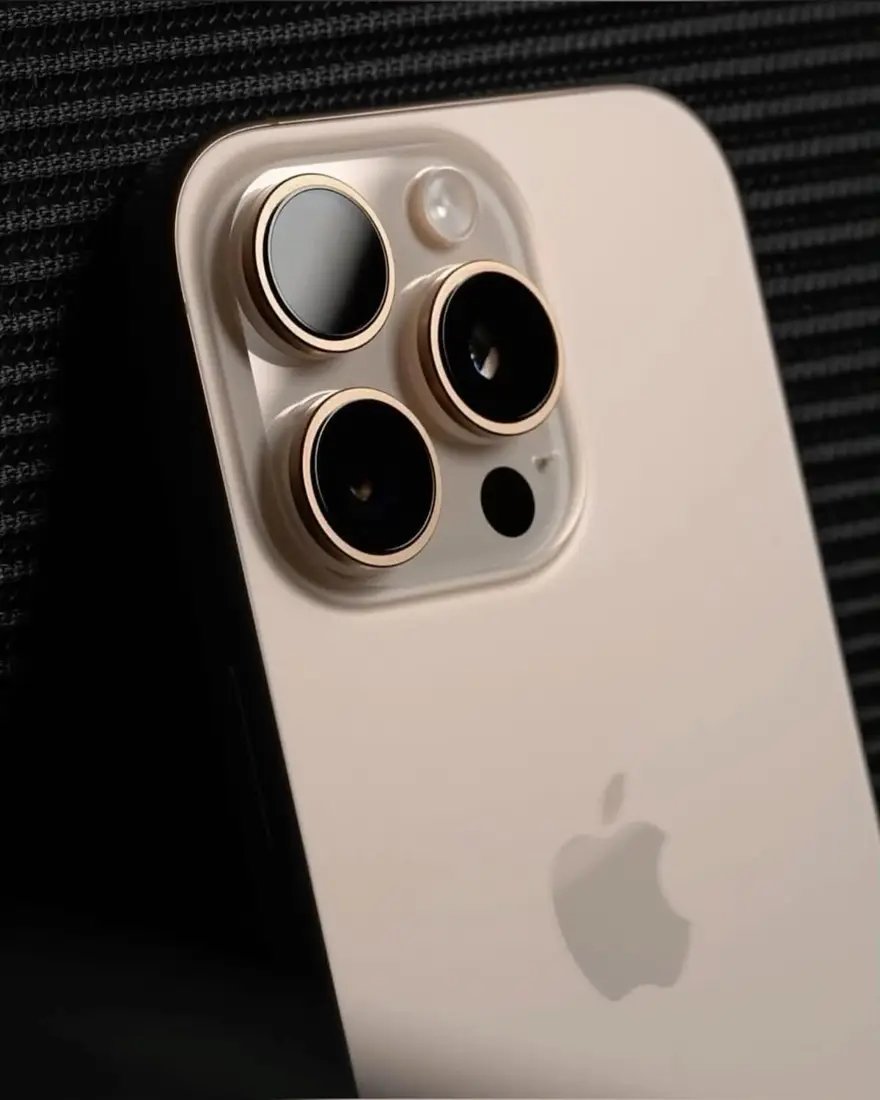
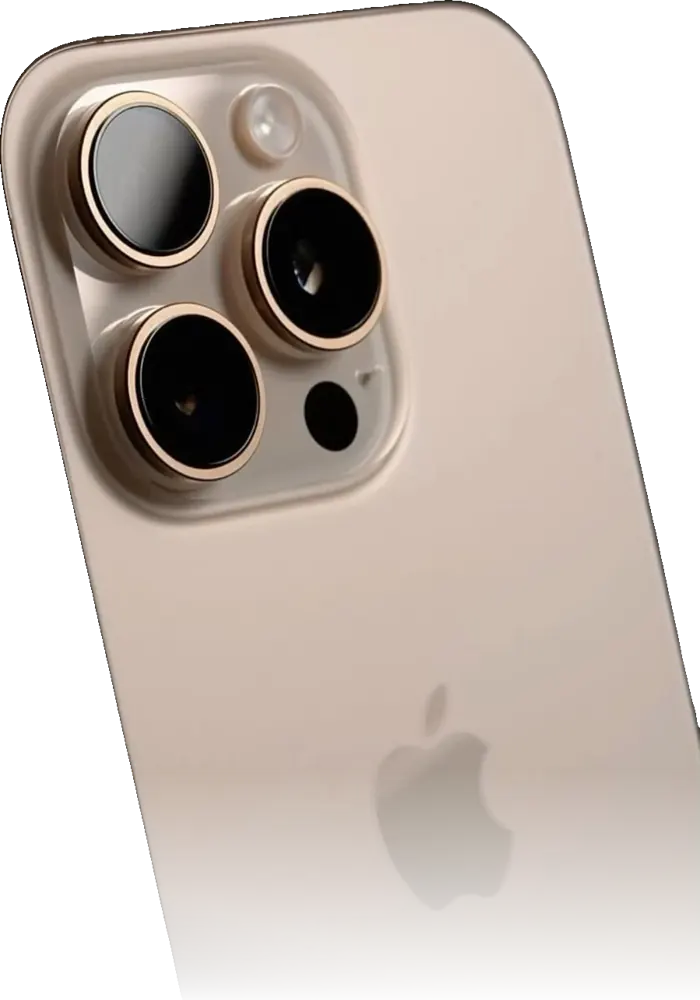
Hero tech.html : produits détourés en plein fond, thème clair/sombre, mot géant, particules, bouton Commander

diff --git a/tech.html b/tech.html
@@ -1301,56 +1301,113 @@ footer{background:#fff;border-top:2px solid var(--red);box-shadow:0 -2px 15px rg
 <!-- HERO -->
 <section id="accueil">
 <style>
-#accueil{--av-nav:61px;--av-cx:50%;min-height:calc(100vh - var(--av-nav));min-height:calc(100svh - var(--av-nav));background:#04060B;padding-bottom:96px;isolation:isolate}
+#accueil{--av-nav:61px;--av-cx:50%;--av-bg:#04060B;--av-glass:rgba(10,14,24,.52);--av-line:rgba(255,255,255,.16);--av-word:rgba(255,255,255,.10);
+  min-height:calc(100vh - var(--av-nav));min-height:calc(100svh - var(--av-nav));background:var(--av-bg);padding-bottom:150px;isolation:isolate;overflow:hidden}
 #accueil .av-stage{position:absolute;inset:0;z-index:0;overflow:hidden}
-#accueil .av-scene{position:absolute;inset:0;overflow:hidden;visibility:hidden}
+#accueil .av-scene{position:absolute;inset:0;overflow:hidden;visibility:hidden;background:
+  radial-gradient(42% 50% at 50% 48%,rgba(0,74,173,.34),transparent 70%),
+  radial-gradient(28% 34% at 62% 64%,rgba(255,49,49,.22),transparent 70%),
+  radial-gradient(40% 7% at 50% 92%,rgba(255,255,255,.07),transparent 75%),var(--av-bg)}
 #accueil .av-scene.on,#accueil .av-scene.in{visibility:visible}
-#accueil .av-blur{position:absolute;inset:-60px;background-size:cover;background-position:center;filter:blur(44px) brightness(.4) saturate(1.35);transform:scale(1.1)}
-#accueil .av-pic{position:absolute;left:var(--av-cx);top:50%;height:100%;transform:translate(-50%,-50%)}
-#accueil .av-pic img{display:block;height:100%;width:auto;max-width:none;transform-origin:50% 50%}
-#accueil .av-scene.kb .av-pic img{animation:avKB 7s linear forwards}
-@keyframes avKB{from{transform:scale(1.02) rotate(-1deg)}to{transform:scale(1.14) rotate(1deg) translateY(-2%)}}
-#accueil .av-shade{position:absolute;inset:0;z-index:1;pointer-events:none;background:linear-gradient(0deg,rgba(4,6,11,.9) 0%,rgba(4,6,11,0) 22%),rgba(4,6,11,.6)}
-#accueil .av-ring{position:absolute;left:var(--av-cx);top:50%;border-radius:50%;border:2px solid #ff3131;box-shadow:0 0 28px rgba(255,49,49,.9),inset 0 0 28px rgba(0,74,173,.9);pointer-events:none;opacity:0;z-index:50;transform:translate(-50%,-50%)}
-#accueil .hero-content{z-index:2}
-#accueil .av-cap{position:absolute;right:120px;bottom:54px;z-index:3;text-align:right;opacity:0;transform:translateY(10px);transition:opacity .5s,transform .5s;pointer-events:none}
-#accueil .av-cap.show{opacity:1;transform:none;transition:opacity .8s .3s,transform .8s .3s}
-#accueil .av-cap span{display:block;font:700 .78rem 'Outfit',sans-serif;letter-spacing:2px;text-transform:uppercase;color:#ff3131}
-#accueil .av-cap strong{display:block;font:400 clamp(1.6rem,2.6vw,2.4rem) 'Bebas Neue',sans-serif;letter-spacing:2px;color:#fff;margin-top:2px}
-#accueil .av-dots{position:absolute;bottom:26px;left:0;right:0;display:flex;justify-content:center;gap:8px;z-index:4}
+#accueil .av-word{position:absolute;left:50%;top:46%;transform:translate(-50%,-50%);font:400 clamp(9rem,30vw,26rem)/.8 'Bebas Neue',sans-serif;letter-spacing:.04em;white-space:nowrap;color:transparent;-webkit-text-stroke:2px var(--av-word);pointer-events:none}
+#accueil .av-scene.kb .av-word{animation:avWord 7s cubic-bezier(.2,.7,.3,1) forwards}
+@keyframes avWord{from{transform:translate(-44%,-50%);opacity:0}15%{opacity:1}to{transform:translate(-54%,-50%);opacity:1}}
+#accueil .av-pic{position:absolute;left:50%;top:50%;width:min(86vw,1200px);height:92%;transform:translate(-50%,-50%);display:flex;align-items:center;justify-content:center}
+#accueil .av-pic img{display:block;max-width:100%;max-height:100%;width:auto;height:auto;filter:drop-shadow(0 40px 50px rgba(0,0,0,.7)) drop-shadow(0 0 40px rgba(47,198,224,.22))}
+#accueil .av-scene.kb .av-pic img{animation:avKB 7s ease-out forwards,avFloat 4s ease-in-out infinite alternate}
+@keyframes avKB{from{scale:.94;rotate:-2deg}to{scale:1.06;rotate:1deg}}
+@keyframes avFloat{from{translate:0 0}to{translate:0 -14px}}
+#accueil .av-shine{position:absolute;inset:0;pointer-events:none;background:linear-gradient(105deg,transparent 35%,rgba(255,255,255,.22) 48%,transparent 60%);transform:translateX(-120%);mix-blend-mode:overlay}
+#accueil .av-scene.kb .av-shine{animation:avShine 1.8s .9s ease-in-out forwards}
+@keyframes avShine{to{transform:translateX(120%)}}
+#accueil .av-fx{position:absolute;inset:0;z-index:1;pointer-events:none;overflow:hidden}
+#accueil .av-fx i{position:absolute;bottom:-10px;width:var(--s);height:var(--s);border-radius:50%;background:var(--c);box-shadow:0 0 8px var(--c),0 0 14px var(--c);opacity:0;animation:avRise var(--d) linear var(--dl) infinite}
+@keyframes avRise{0%{transform:translate(0,0);opacity:0}10%{opacity:.8}90%{opacity:.6}100%{transform:translate(var(--x),-105vh);opacity:0}}
+#accueil .av-shade{position:absolute;inset:0;z-index:2;pointer-events:none;background:
+  radial-gradient(58% 55% at 50% 46%,rgba(4,6,11,.74),rgba(4,6,11,.3) 72%,rgba(4,6,11,.12)),
+  linear-gradient(0deg,rgba(4,6,11,.95) 0%,rgba(4,6,11,0) 26%),
+  linear-gradient(180deg,rgba(4,6,11,.55) 0%,rgba(4,6,11,0) 18%)}
+#accueil .av-ring{position:absolute;left:50%;top:50%;border-radius:50%;border:2px solid #ff3131;box-shadow:0 0 30px rgba(255,49,49,.9),inset 0 0 30px rgba(0,74,173,.9);pointer-events:none;opacity:0;z-index:50;transform:translate(-50%,-50%)}
+#accueil .hero-content{z-index:3;text-align:center}
+#accueil .hero-sub{text-shadow:0 2px 14px rgba(0,0,0,.6);font-weight:500}
+#accueil .hero-stats{display:grid;grid-template-columns:repeat(4,minmax(0,1fr));gap:.7rem;width:100%;max-width:640px;margin-left:auto;margin-right:auto}
+#accueil .stat-box{padding:.9rem .5rem}
+@media (max-width:560px){#accueil .hero-stats{grid-template-columns:repeat(2,minmax(0,1fr))}}
+#accueil .hero-trust,#accueil .hero-badge{background:var(--av-glass);border-color:var(--av-line);backdrop-filter:blur(14px) saturate(1.4);-webkit-backdrop-filter:blur(14px) saturate(1.4)}
+#accueil .stat-box{background:var(--av-glass) !important;border-color:var(--av-line);backdrop-filter:blur(14px) saturate(1.4);-webkit-backdrop-filter:blur(14px) saturate(1.4);box-shadow:0 12px 30px -12px rgba(0,0,0,.6) !important}
+#accueil .btn-red{position:relative;overflow:hidden}
+#accueil .btn-red::after{content:"";position:absolute;inset:0;background:linear-gradient(105deg,transparent 30%,rgba(255,255,255,.55) 50%,transparent 70%);transform:translateX(-120%);animation:avBtn 3.5s ease-in-out 1.5s infinite}
+@keyframes avBtn{0%,60%{transform:translateX(-120%)}100%{transform:translateX(120%)}}
+#accueil .av-pill{position:absolute;left:50%;bottom:48px;z-index:4;display:flex;align-items:center;gap:14px;padding:8px 8px 8px 20px;border-radius:999px;background:var(--av-glass);border:1px solid var(--av-line);backdrop-filter:blur(14px) saturate(1.4);-webkit-backdrop-filter:blur(14px) saturate(1.4);box-shadow:0 14px 34px -12px rgba(0,0,0,.6);transform:translate(-50%,12px);opacity:0;transition:opacity .45s,transform .45s;max-width:calc(100% - 32px)}
+#accueil .av-pill.show{opacity:1;transform:translate(-50%,0);transition:opacity .7s .3s,transform .7s .3s}
+#accueil .av-pill span{display:block;font:700 .66rem 'Outfit',sans-serif;letter-spacing:2px;text-transform:uppercase;color:#ff3131}
+#accueil .av-pill strong{display:block;font:400 1.35rem/1.05 'Bebas Neue',sans-serif;letter-spacing:1.5px;color:#fff;white-space:nowrap;overflow:hidden;text-overflow:ellipsis}
+#accueil .av-pill .av-txt{min-width:0}
+#accueil .av-buy{flex:none;display:inline-flex;align-items:center;gap:6px;background:#25D366;color:#fff;text-decoration:none;font:700 .82rem 'Outfit',sans-serif;letter-spacing:.5px;padding:10px 16px;border-radius:999px;box-shadow:0 0 0 0 rgba(37,211,102,.55);animation:avPulse 2.2s infinite}
+@keyframes avPulse{70%{box-shadow:0 0 0 12px rgba(37,211,102,0)}100%{box-shadow:0 0 0 0 rgba(37,211,102,0)}}
+#accueil .av-buy:focus-visible,#accueil .av-dots button:focus-visible{outline:2px solid #fff;outline-offset:3px}
+#accueil .av-dots{position:absolute;bottom:20px;left:0;right:0;display:flex;justify-content:center;gap:8px;z-index:4}
 #accueil .av-dots button{width:30px;height:4px;border:0;padding:0;border-radius:2px;background:rgba(255,255,255,.28);cursor:pointer;overflow:hidden;position:relative}
 #accueil .av-dots button::before{content:"";position:absolute;inset:-10px 0}
 #accueil .av-dots button span{position:absolute;inset:0;background:linear-gradient(90deg,#ff3131,#004aad);transform-origin:0 50%;transform:scaleX(0)}
 #accueil .av-dots button.done span{transform:scaleX(1)}
 #accueil .av-dots button.cur span{animation:avFill 5s linear forwards}
-#accueil.av-paused .av-dots button.cur span{animation-play-state:paused}
+#accueil.av-paused .av-dots button.cur span,#accueil.av-paused .av-buy{animation-play-state:paused}
 @keyframes avFill{to{transform:scaleX(1)}}
-#accueil .av-dots button:focus-visible{outline:2px solid #fff;outline-offset:4px}
-@media (min-aspect-ratio:1/1) and (min-width:900px){
-  #accueil{--av-cx:70%;align-items:flex-start;text-align:left;padding-left:6%;padding-right:6%}
-  #accueil .av-shade{background:linear-gradient(90deg,rgba(4,6,11,.94) 0%,rgba(4,6,11,.82) 28%,rgba(4,6,11,.25) 56%,rgba(4,6,11,.05) 100%),linear-gradient(0deg,rgba(4,6,11,.85) 0%,rgba(4,6,11,0) 24%)}
-  #accueil .hero-content{align-items:flex-start;max-width:520px}
-  #accueil .hero-sub,#accueil .hero-trust{margin-left:0;text-align:left}
-  #accueil .hero-btns,#accueil .hero-stats{justify-content:flex-start}
-  #accueil .hero-stats{display:grid;grid-template-columns:repeat(4,1fr);gap:.6rem;width:100%}
-  #accueil .stat-box{padding:.8rem .5rem}
+@media (max-width:760px){
+  #accueil{padding-bottom:140px}
+  #accueil .av-pic{width:118vw;height:64%;top:46%}
+  #accueil .av-word{font-size:40vw;top:40%}
+  #accueil .av-pill{left:14px;right:auto;transform:translateY(12px);max-width:calc(100% - 110px);bottom:46px;padding:6px 6px 6px 14px;gap:10px}
+  #accueil .av-pill.show{transform:none}
+  #accueil .av-pill strong{font-size:1.1rem}
+  #accueil .av-buy{padding:9px 12px;font-size:.78rem}
 }
-@media (max-aspect-ratio:1/1),(max-width:899px){
-  #accueil .av-shade{background:linear-gradient(0deg,rgba(4,6,11,.9) 0%,rgba(4,6,11,0) 18%),rgba(4,6,11,.5)}
-  #accueil .av-cap{display:none}
+@media (prefers-color-scheme:light){
+  #accueil{--av-bg:#F1F3F8;--av-glass:rgba(255,255,255,.58);--av-line:rgba(26,26,26,.10);--av-word:rgba(0,74,173,.12)}
+  #accueil .av-scene{background:
+    radial-gradient(42% 50% at 50% 48%,rgba(0,74,173,.18),transparent 70%),
+    radial-gradient(28% 34% at 62% 64%,rgba(255,49,49,.14),transparent 70%),
+    radial-gradient(40% 7% at 50% 92%,rgba(20,30,60,.12),transparent 75%),
+    linear-gradient(180deg,#F8F9FC,#E7EBF3)}
+  #accueil .av-pic img{filter:drop-shadow(0 36px 44px rgba(20,30,60,.30)) drop-shadow(0 0 30px rgba(0,74,173,.14))}
+  #accueil .av-fx i{opacity:0;box-shadow:0 0 6px var(--c)}
+  #accueil .av-shade{background:radial-gradient(58% 55% at 50% 46%,rgba(241,243,248,.8),rgba(241,243,248,.35) 72%,rgba(241,243,248,.12)),linear-gradient(0deg,rgba(241,243,248,.95) 0%,rgba(241,243,248,0) 26%),linear-gradient(180deg,rgba(241,243,248,.6) 0%,rgba(241,243,248,0) 18%)}
+  #accueil .hero-sub{color:#222;text-shadow:0 1px 10px rgba(255,255,255,.9)}
+  #accueil .hero-trust{color:#2a2a2a}
+  #accueil .hero-trust strong{color:var(--red)}
+  #accueil .hero-badge{color:var(--red)}
+  #accueil .btn-red,#accueil .btn-red:hover{background:linear-gradient(135deg,var(--red),var(--blue));color:#fff;box-shadow:0 10px 26px -8px rgba(232,0,28,.5)}
+  #accueil .btn-out{border-color:rgba(26,26,26,.28);color:#1a1a1a;background:rgba(255,255,255,.55);backdrop-filter:blur(10px);-webkit-backdrop-filter:blur(10px)}
+  #accueil .btn-out:hover{border-color:var(--red);color:var(--red)}
+  #accueil .stat-box{box-shadow:0 12px 30px -14px rgba(20,30,60,.35) !important}
+  #accueil .stat-num{background:linear-gradient(135deg,var(--red),var(--blue));-webkit-background-clip:text;background-clip:text;color:transparent}
+  #accueil .stat-lbl{color:#555 !important}
+  #accueil .hero-logo-wrap .logo-light{display:inline-block !important}
+  #accueil .hero-logo-wrap .logo-dark{display:none !important}
+  #accueil .av-pill strong{color:#1a1a1a}
+  #accueil .av-pill{box-shadow:0 14px 34px -14px rgba(20,30,60,.35)}
+  #accueil .av-dots button{background:rgba(26,26,26,.18)}
 }
-@media (prefers-reduced-motion:reduce){#accueil .av-scene.kb .av-pic img{animation:none}}
+@media (prefers-color-scheme:dark){
+  #accueil .stat-lbl{color:rgba(255,255,255,.72) !important}
+}
+@media (prefers-reduced-motion:reduce){
+  #accueil .av-scene.kb .av-pic img,#accueil .av-scene.kb .av-word,#accueil .av-scene.kb .av-shine,#accueil .av-fx i,#accueil .btn-red::after,#accueil .av-buy{animation:none}
+  #accueil .av-scene.kb .av-word{opacity:1}
+}
 </style>
   <div class="av-stage" id="av-stage">
-    <div class="av-scene" data-k="La collection" data-n="iPhone, iPad, Apple Watch"><div class="av-blur" style="background-image:url(images/vitrine-1.webp)"></div><div class="av-pic"><img src="images/vitrine-1.webp" alt="Collection Angy Tech" decoding="async" fetchpriority="high"></div></div>
-    <div class="av-scene" data-k="Finitions" data-n="Titane et contours dorés"><div class="av-blur" style="background-image:url(images/vitrine-2.webp)"></div><div class="av-pic"><img src="images/vitrine-2.webp" alt="Titane et contours dorés" decoding="async"></div></div>
-    <div class="av-scene" data-k="Appareil photo" data-n="Trois objectifs"><div class="av-blur" style="background-image:url(images/vitrine-3.webp)"></div><div class="av-pic"><img src="images/vitrine-3.webp" alt="Trois objectifs" decoding="async"></div></div>
-    <div class="av-scene" data-k="Couleurs" data-n="Noir, naturel, bleu, bordeaux"><div class="av-blur" style="background-image:url(images/vitrine-4.webp)"></div><div class="av-pic"><img src="images/vitrine-4.webp" alt="Noir, naturel, bleu, bordeaux" decoding="async"></div></div>
-    <div class="av-scene" data-k="iPhone" data-n="Toute la gamme"><div class="av-blur" style="background-image:url(images/vitrine-5.webp)"></div><div class="av-pic"><img src="images/vitrine-5.webp" alt="Toute la gamme" decoding="async"></div></div>
-    <div class="av-scene" data-k="iPad" data-n="Travaille, crée, joue"><div class="av-blur" style="background-image:url(images/vitrine-6.webp)"></div><div class="av-pic"><img src="images/vitrine-6.webp" alt="Travaille, crée, joue" decoding="async"></div></div>
-    <div class="av-scene" data-k="Apple Watch" data-n="Au poignet, toute la journée"><div class="av-blur" style="background-image:url(images/vitrine-7.webp)"></div><div class="av-pic"><img src="images/vitrine-7.webp" alt="Au poignet, toute la journée" decoding="async"></div></div>
+    <div class="av-scene" data-k="La collection" data-n="iPhone, iPad, Apple Watch" data-wa="https://wa.me/221710538917?text=Bonjour%20Angy%20Tech%20%21%20Je%20suis%20int%C3%A9ress%C3%A9%28e%29%20par%20%3A%20iPhone%2C%20iPad%2C%20Apple%20Watch.%20Vous%20avez%20quoi%20de%20disponible%20%3F"><div class="av-word" aria-hidden="true">ANGY</div><div class="av-pic"><img src="images/vitrine-1.webp" alt="iPhone, iPad, Apple Watch" decoding="async" fetchpriority="high"></div><div class="av-shine"></div></div>
+    <div class="av-scene" data-k="Finitions" data-n="Titane et contours dorés" data-wa="https://wa.me/221710538917?text=Bonjour%20Angy%20Tech%20%21%20Je%20suis%20int%C3%A9ress%C3%A9%28e%29%20par%20%3A%20Titane%20et%20contours%20dor%C3%A9s.%20Vous%20avez%20quoi%20de%20disponible%20%3F"><div class="av-word" aria-hidden="true">PREMIUM</div><div class="av-pic"><img src="images/vitrine-2.webp" alt="Titane et contours dorés" decoding="async"></div><div class="av-shine"></div></div>
+    <div class="av-scene" data-k="Appareil photo" data-n="Trois objectifs, zéro compromis" data-wa="https://wa.me/221710538917?text=Bonjour%20Angy%20Tech%20%21%20Je%20suis%20int%C3%A9ress%C3%A9%28e%29%20par%20%3A%20Trois%20objectifs%2C%20z%C3%A9ro%20compromis.%20Vous%20avez%20quoi%20de%20disponible%20%3F"><div class="av-word" aria-hidden="true">CAMÉRA</div><div class="av-pic"><img src="images/vitrine-3.webp" alt="Trois objectifs, zéro compromis" decoding="async"></div><div class="av-shine"></div></div>
+    <div class="av-scene" data-k="Couleurs" data-n="Noir, naturel, bleu, bordeaux" data-wa="https://wa.me/221710538917?text=Bonjour%20Angy%20Tech%20%21%20Je%20suis%20int%C3%A9ress%C3%A9%28e%29%20par%20%3A%20Noir%2C%20naturel%2C%20bleu%2C%20bordeaux.%20Vous%20avez%20quoi%20de%20disponible%20%3F"><div class="av-word" aria-hidden="true">COULEURS</div><div class="av-pic"><img src="images/vitrine-4.webp" alt="Noir, naturel, bleu, bordeaux" decoding="async"></div><div class="av-shine"></div></div>
+    <div class="av-scene" data-k="iPhone" data-n="Du XR au 17 Pro Max" data-wa="https://wa.me/221710538917?text=Bonjour%20Angy%20Tech%20%21%20Je%20suis%20int%C3%A9ress%C3%A9%28e%29%20par%20%3A%20Du%20XR%20au%2017%20Pro%20Max.%20Vous%20avez%20quoi%20de%20disponible%20%3F"><div class="av-word" aria-hidden="true">IPHONE</div><div class="av-pic"><img src="images/vitrine-5.webp" alt="Du XR au 17 Pro Max" decoding="async"></div><div class="av-shine"></div></div>
+    <div class="av-scene" data-k="iPad" data-n="Travaille, crée, joue" data-wa="https://wa.me/221710538917?text=Bonjour%20Angy%20Tech%20%21%20Je%20suis%20int%C3%A9ress%C3%A9%28e%29%20par%20%3A%20Travaille%2C%20cr%C3%A9e%2C%20joue.%20Vous%20avez%20quoi%20de%20disponible%20%3F"><div class="av-word" aria-hidden="true">IPAD</div><div class="av-pic"><img src="images/vitrine-6.webp" alt="Travaille, crée, joue" decoding="async"></div><div class="av-shine"></div></div>
+    <div class="av-scene" data-k="Apple Watch" data-n="Au poignet, toute la journée" data-wa="https://wa.me/221710538917?text=Bonjour%20Angy%20Tech%20%21%20Je%20suis%20int%C3%A9ress%C3%A9%28e%29%20par%20%3A%20Au%20poignet%2C%20toute%20la%20journ%C3%A9e.%20Vous%20avez%20quoi%20de%20disponible%20%3F"><div class="av-word" aria-hidden="true">WATCH</div><div class="av-pic"><img src="images/vitrine-7.webp" alt="Au poignet, toute la journée" decoding="async"></div><div class="av-shine"></div></div>
     <div class="av-ring" id="av-ring"></div>
   </div>
+  <div class="av-fx" aria-hidden="true"><i style="left:33.1%;--s:2px;--d:12.6s;--dl:-0.9s;--x:26px;--c:#2FC6E0"></i><i style="left:37.1%;--s:2px;--d:17.2s;--dl:-3.9s;--x:-33px;--c:#4d8dff"></i><i style="left:8.7%;--s:2px;--d:14.0s;--dl:-1.1s;--x:5px;--c:#ff3131"></i><i style="left:62.5%;--s:4px;--d:17.5s;--dl:-10.4s;--x:-8px;--c:#ff3131"></i><i style="left:6.5%;--s:2px;--d:11.6s;--dl:-2.6s;--x:-31px;--c:#ffffff"></i><i style="left:55.8%;--s:2px;--d:9.9s;--dl:-10.3s;--x:-25px;--c:#2FC6E0"></i><i style="left:54.6%;--s:2px;--d:14.1s;--dl:-11.1s;--x:-0px;--c:#4d8dff"></i><i style="left:76.6%;--s:3px;--d:14.3s;--dl:-8.2s;--x:-16px;--c:#ff3131"></i><i style="left:69.1%;--s:2px;--d:9.7s;--dl:-5.4s;--x:-0px;--c:#ffffff"></i><i style="left:72.0%;--s:3px;--d:14.5s;--dl:-1.3s;--x:1px;--c:#ff3131"></i><i style="left:74.7%;--s:2px;--d:17.4s;--dl:-7.6s;--x:37px;--c:#2FC6E0"></i><i style="left:75.4%;--s:4px;--d:16.1s;--dl:-14.7s;--x:-13px;--c:#ffffff"></i><i style="left:59.1%;--s:4px;--d:16.2s;--dl:-1.2s;--x:-33px;--c:#ffffff"></i><i style="left:47.5%;--s:2px;--d:9.5s;--dl:-12.6s;--x:12px;--c:#4d8dff"></i><i style="left:29.3%;--s:3px;--d:17.0s;--dl:-6.2s;--x:35px;--c:#ffffff"></i><i style="left:18.1%;--s:2px;--d:13.4s;--dl:-3.9s;--x:-17px;--c:#ff3131"></i><i style="left:40.2%;--s:3px;--d:9.7s;--dl:-8.1s;--x:4px;--c:#ff3131"></i><i style="left:80.7%;--s:4px;--d:11.5s;--dl:-7.5s;--x:-11px;--c:#4d8dff"></i><i style="left:93.9%;--s:2px;--d:9.7s;--dl:-2.7s;--x:13px;--c:#2FC6E0"></i><i style="left:48.6%;--s:4px;--d:10.6s;--dl:-5.1s;--x:-28px;--c:#ffffff"></i><i style="left:60.5%;--s:3px;--d:17.6s;--dl:-12.4s;--x:1px;--c:#2FC6E0"></i><i style="left:45.8%;--s:4px;--d:12.5s;--dl:-7.2s;--x:-32px;--c:#4d8dff"></i><i style="left:8.0%;--s:2px;--d:17.9s;--dl:-7.9s;--x:-31px;--c:#2FC6E0"></i><i style="left:11.8%;--s:4px;--d:10.4s;--dl:-1.8s;--x:-11px;--c:#2FC6E0"></i><i style="left:8.8%;--s:2px;--d:14.5s;--dl:-2.7s;--x:-20px;--c:#ffffff"></i><i style="left:59.8%;--s:3px;--d:10.1s;--dl:-15.3s;--x:39px;--c:#4d8dff"></i><i style="left:48.1%;--s:3px;--d:9.8s;--dl:-1.8s;--x:-13px;--c:#ffffff"></i><i style="left:47.9%;--s:2px;--d:13.6s;--dl:-3.7s;--x:36px;--c:#ffffff"></i></div>
   <div class="av-shade"></div>
   <div class="hero-content fadein">
     <div class="hero-badge" style="display:inline-flex;align-items:center;gap:8px;">🇸🇳 Sénégal · Livraison à Dakar - Depuis 2026</div>
@@ -1378,32 +1435,31 @@ footer{background:#fff;border-top:2px solid var(--red);box-shadow:0 -2px 15px rg
       <div class="stat-box"><div class="stat-num">23+</div><div class="stat-lbl">Modèles iPhone</div></div>
     </div>
   </div>
-  <div class="av-cap" id="av-cap" aria-hidden="true"><span></span><strong></strong></div>
+  <div class="av-pill" id="av-pill"><div class="av-txt"><span></span><strong></strong></div><a class="av-buy" href="https://wa.me/221710538917" target="_blank" rel="noopener">Commander</a></div>
   <div class="av-dots" id="av-dots"></div>
 <script>
 (function(){
   var root=document.getElementById('accueil'), stage=document.getElementById('av-stage');
   if(!root||!stage)return;
-  var scenes=[].slice.call(stage.querySelectorAll('.av-scene')), ring=document.getElementById('av-ring'), dotsBox=document.getElementById('av-dots'), cap=document.getElementById('av-cap');
+  var scenes=[].slice.call(stage.querySelectorAll('.av-scene')), ring=document.getElementById('av-ring'), dotsBox=document.getElementById('av-dots'), pill=document.getElementById('av-pill');
   var N=scenes.length, DUR=5000, TR=1300, cur=0, busy=false, timer=null, visible=true, z=1;
   var reduce=window.matchMedia('(prefers-reduced-motion: reduce)').matches, navEl=document.querySelector('nav');
   function setNav(){root.style.setProperty('--av-nav',(navEl&&getComputedStyle(navEl).position!=='static'?navEl.offsetHeight:0)+'px');}
   var dots=scenes.map(function(s,i){var b=document.createElement('button');b.type='button';b.setAttribute('aria-label','Image '+(i+1));b.innerHTML='<span></span>';b.onclick=function(){go(i);};dotsBox.appendChild(b);return b;});
   function ease(t){return t<.5?4*t*t*t:1-Math.pow(-2*t+2,3)/2;}
   function kb(s){s.classList.remove('kb');void s.offsetWidth;s.classList.add('kb');}
-  function caption(i){cap.classList.remove('show');setTimeout(function(){cap.querySelector('span').textContent=scenes[i].dataset.k;cap.querySelector('strong').textContent=scenes[i].dataset.n;cap.classList.add('show');},250);}
+  function caption(i){pill.classList.remove('show');setTimeout(function(){var s=scenes[i];pill.querySelector('span').textContent=s.dataset.k;pill.querySelector('strong').textContent=s.dataset.n;pill.querySelector('a').href=s.dataset.wa;pill.classList.add('show');},250);}
   function paintDots(){dots.forEach(function(d,i){d.classList.toggle('done',i<cur);d.classList.remove('cur');if(i===cur){void d.offsetWidth;d.classList.add('cur');}});}
   function schedule(){clearTimeout(timer);if(visible&&!document.hidden)timer=setTimeout(function(){go((cur+1)%N);},DUR);}
   function go(n){
     if(busy||n===cur)return; busy=true; clearTimeout(timer);
     var from=scenes[cur], to=scenes[n];
     from.classList.remove('on'); from.classList.add('in'); to.style.zIndex=++z; to.classList.add('in'); kb(to); caption(n);
-    var w=stage.offsetWidth,h=stage.offsetHeight,cx=getComputedStyle(root).getPropertyValue('--av-cx').trim()||'50%';
-    var rmax=Math.hypot(Math.max(parseFloat(cx),100-parseFloat(cx))/100*w,h/2)*1.05,t0=null;
+    var w=stage.offsetWidth,h=stage.offsetHeight,rmax=Math.hypot(w/2,h/2)*1.05,t0=null;
     if(reduce){done();return;}
     function step(ts){
       if(t0===null)t0=ts; var t=Math.min((ts-t0)/TR,1), r=ease(t);
-      to.style.clipPath=to.style.webkitClipPath='circle('+(r*rmax)+'px at '+cx+' 50%)';
+      to.style.clipPath=to.style.webkitClipPath='circle('+(r*rmax)+'px at 50% 50%)';
       ring.style.width=ring.style.height=(r*rmax*2)+'px'; ring.style.opacity=Math.sin(t*Math.PI);
       if(t<1)requestAnimationFrame(step); else done();
     }
